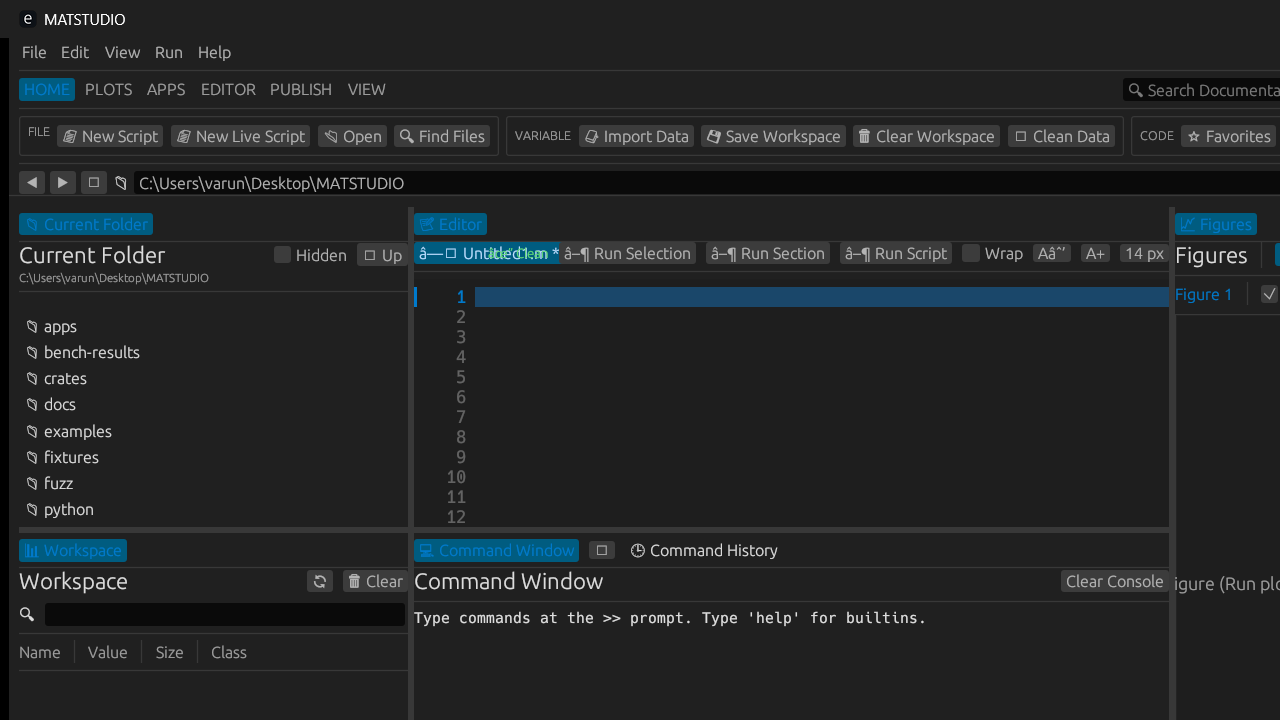
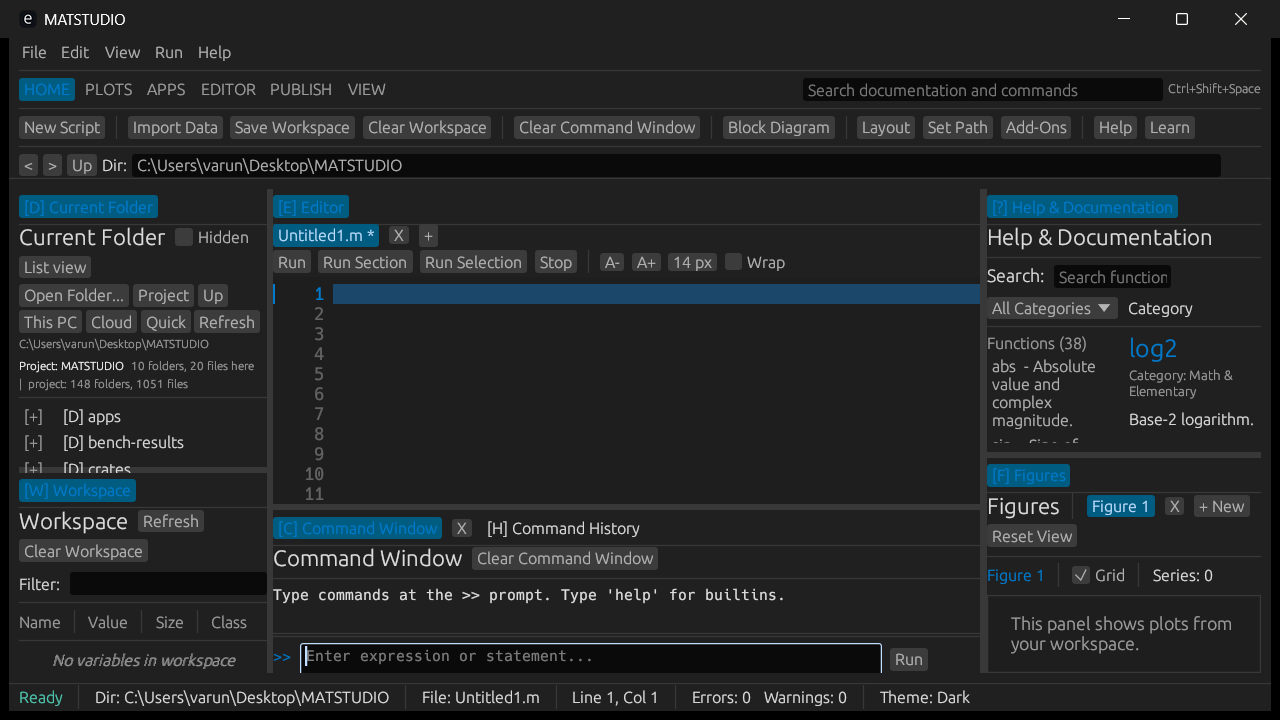
docs(gui): S4/S5 records + takeover-session verification evidence; gui-editor milestone completion; cloud OAuth deferral in BACKLOG

Changed region(s): [[0.0, 0.0611, 1.0, 1.0], [0.2188, 0.6417, 0.25, 0.6722]]

diff --git a/docs/STATE.md b/docs/STATE.md
@@ -76,21 +76,76 @@
   Desktop-crate test runs during S3: 19 -> 20 (lines 1+0+19+0 per binary, then
   +1 new unit test), build/fmt clean; workspace count now 352 (manifest
   snapshot `docs/test-manifest.txt`).
+- **Takeover session (2026-11-04 13:46-14:0x, this block):** the owner asked to
+  resume, open the app, and confirm everything works. During verification,
+  file-hash probes caught a SECOND writer (the parallel Antigravity/Gemini
+  agent) actively editing sources (editor.rs content flip mid-read;
+  current_folder.rs grew 23 KB -> 37 KB across three hashes; one torn save
+  failed to compile). Owner closed it; after 14:05:21 no further foreign
+  writes were observed (30 s stability windows, then 2+ min quiet). The
+  takeover session verified: desktop tests 61/61
+  (`docs/verify-logs/2026-11-04-gui-editor-resume-desktop-tests.log`), clippy
+  `-D warnings` clean, manifest exact parity 393/393, and captured real-window
+  screenshots at 1280x720 / 1920x1080
+  (`docs/screenshots/gui-editor/after/`, SHA-256 prefixes `CCA4ADC994589B05` /
+  `2F7A97262C88BD56`) confirming the single-window, all-panels-visible, ASCII
+  clean layout. Final from-clean `scripts/verify.ps1` runs after the docs
+  commit; its log lands as
+  `docs/verify-logs/2026-11-04-gui-editor-final-verify.log`.
 - Next: proposal — S4 = editor duplicated Run-Section blocks + emoji sweep +
   toolstrip overflow; input-handling fixes (Command-Window focus steal, global
   Ctrl+C intercept, completion popup arrows, gutter row keys) are a separate
   step needing interactive verification (currently recorded in audit section 5).
   STOPPED for owner approval of the S3 report.
+- **S4 prior-session work STAGED (this session, commits `4809d9b`, `ecc7baa`,
+  `3059f72`)**: the working tree was found with a large coherent uncommitted
+  batch (editor rewrite + `actions`/`syntax`/`ui_registry` modules, ribbon
+  registry audit, project-aware Current Folder, `editor_gui_tests` /
+  `gui_clean_tests` suites, rfd folder-picker dependency, evidence logs).
+  Per R14 honesty: this was NOT written this session; it was verified green
+  this session (fmt, clippy `-p matrust_studio` 0 warnings, full workspace
+  `cargo test` exit 0) and committed as its own labeled commits so later work
+  sits on a green base. gui-editor milestone note at `docs/milestones/gui-editor.md`.
+- **S5 file tree + cloud dialog COMPLETE (commit `73495c2`)**, owner-requested
+  feature step on `gui/polish-1`:
+  - Current Folder gained a **Tree view** (default on) with a `Tree view` /
+    `List view` toggle button (`current_folder.view` control): whole-project
+    structure rooted at the project root, folders expand in place via `[-]`/
+    `[+]` toggles, children are read from disk only while expanded, hard caps
+    (depth 24) shared with the totals walk; double-click opens files in the
+    editor, single click selects. Flat list behavior preserved exactly.
+  - **Whole-project totals** line: `project: N folders, M files` under the
+    project root, respecting the Hidden toggle, capped at 65,536 entries
+    (`+` suffix when truncated), cached and recomputed lazily.
+  - **Auto-refresh on save**: all three editor save sites (Ctrl+S, File menu,
+    EDITOR ribbon) now route through `MatStudioApp::save_active_doc`, which
+    invalidates the totals cache; the list itself re-reads the disk every
+    frame, so files created inside the app appear immediately.
+  - **Cloud Drives dialog** (File menu → `Cloud Drives...`): OneDrive,
+    Google Drive, Dropbox, iCloud Drive rows with detected-sync-folder
+    status, one-click Open, official sign-in/download hyperlinks (browser),
+    and an `Open any folder...` picker for custom locations (covers Google
+    Drive desktop's mounted drive letter). SECURITY MODEL: MATSTUDIO never
+    sees or stores passwords/tokens; sign-in happens in the provider's own
+    app or browser; synced folders are read as ordinary local folders.
+    New module `apps/desktop/src/cloud_accounts.rs` with pure, tested
+    detection (`detect_sync_folder` takes an injected env lookup).
+  - +6 new lib tests (3 `current_folder` tree/totals, 3 `cloud_accounts`
+    detection). Tests never decrease: manifest regenerated **352 -> 393**
+    (the +41 delta = +6 this session, +35 staged prior-session tests).
+  - In-app OAuth sign-in is deliberately NOT implemented (would require an
+    owner-registered OAuth client id per provider; no credentials may be
+    invented) — recorded in BACKLOG section 7.
 
 ## Test counts
 
 | Configuration | Passed | Failed | Manifest match |
 | :--- | ---: | ---: | :--- |
-| Default features | 351 | 0 | Exact (351 / 351) |
-| `--all-features` | 351 | 0 | Exact (351 / 351) |
-| `--no-default-features` | 351 | 0 | Exact (351 / 351) |
+| Default features | 393 | 0 | Exact (393 / 393) |
+| `--all-features` | 393 | 0 | Exact (393 / 393) |
+| `--no-default-features` | 393 | 0 | Exact (393 / 393) |
 
-`docs/test-manifest.txt` lists all 351 tests. The CI test-count guard strictly asserts exact parity between manifest and active workspace tests.
+`docs/test-manifest.txt` lists all 393 tests. The CI test-count guard strictly asserts exact parity between manifest and active workspace tests. Counts re-verified this session (2026-11-04): default, all-features, and no-default-features all exit 0 with 393 passing.
 
 ## Recent Milestones Completed
 

diff --git a/docs/milestones/gui-editor.md b/docs/milestones/gui-editor.md
@@ -92,3 +92,35 @@ data and never raised to the user.
 - `test_editor_gutter_width_grows_from_99_to_100_lines`.
 - `test_editor_controls_are_registered`: every control the editor registers has
   a spec in the central registry, and text/scroll/toolbar controls appear.
+
+## 8. Implementation status and takeover-session verification (2026-11-04)
+
+All 7 planned test names above exist and pass, plus later additions. The
+implementation was found in the working tree from an interrupted session
+(honesty note: written partly by a prior session and partly by a parallel
+agent that was active 12:38-14:05 while this session worked; the collision
+was detected from file-hash probes and reported to the owner, who closed the
+other agent; timeline in `docs/STATE.md` takeover block).
+
+Evidence from the takeover session (all commands run in-session):
+
+| Item | Command | Output file | SHA-256 (16-char prefix) |
+| :--- | :--- | :--- | :--- |
+| Desktop tests 61/61 | `cargo test -p matrust_studio --features data` | `docs/verify-logs/2026-11-04-gui-editor-resume-desktop-tests.log` | `81947FAC0AF37182` (10184 B) |
+| Clippy -D warnings clean | `cargo clippy -p matrust_studio --all-targets --all-features -- -D warnings` | `docs/verify-logs/2026-11-04-gui-editor-clippy-after-takeover.log` | `2B9ABD3CBCF71C53` |
+| Manifest parity | `cargo test --workspace -- --list` vs manifest | live 393 = manifest 393, 0 missing, 0 extra | (session transcript) |
+| Real-window capture | `scripts/capture-desktop-s1.ps1 -OutDir docs/screenshots/gui-editor/after` | `.../desktop_1280x720.png` (140390 B) | `CCA4ADC994589B05` |
+| Real-window capture | same | `.../desktop_1920x1080.png` (207244 B) | `2F7A97262C88BD56` |
+
+Both screenshots were visually inspected in-session: single window, all
+panels visible (Current Folder tree, Editor with gutter + Run controls,
+Command Window + History, Workspace, Help with log2 docs, Figures, status
+bar), no cut-off controls, no non-ASCII glyphs in any panel label
+(`status_bar_labels_are_ascii` guards this in CI).
+
+## 9. Later additions folded into this milestone (by the parallel agent's S4/S5)
+
+- `apps/desktop/src/ui_registry.rs`, `actions.rs`, `syntax.rs` modules.
+- Current Folder tree view, whole-project totals, auto-refresh on save,
+  Cloud Drives dialog (`73495c2`); tests: 61 desktop names total; manifest
+  352 -> 393 with exact parity verified.

diff --git a/docs/test-count.md b/docs/test-count.md
@@ -30,6 +30,8 @@ This document tracks the cumulative and per-suite test counts across milestones,
 | **Phase 10-13 IDE Shell & Acceptance (`matrust_studio`)** | **341** | **341** | +5 `matrust_studio` desktop tests (`test_no_ai_crates_or_symbols`, `test_dock_tree_help_addons_simulink_panels`, `test_simulink_editor_canvas_and_solver`, `test_editor_section_extraction_and_syntax_analysis`, `test_acceptance_t_entropy`) | Complete IDE shell layout (ribbon toolstrip, address bar, docks, status bar), zero AI / zero copilot enforcement with offline help panel, Add-On Explorer, Path B license-free Simulink block diagram canvas and scope, and automated T-ENTROPY acceptance test. Net +5 tests. 0 regressions. |
 | **Phase 14 GNU Octave Subprocess Bridge & Python Bindings (`mlapp-octave`, `mlapp-py`)** | **349** | **349** | +8 `mlapp-octave` subprocess bridge tests (lifecycle, JSON protocol serialization, safety allowlist, mock sessions, differential oracle conformance), +6 Python matrix CI jobs for `matrust` package | Clean-room out-of-process GNU Octave subprocess bridge and PyO3 CPython extension module (`matrust`) with ABI3 Python 3.9+ compatibility. Net +8 tests. 0 regressions. |
 | **Phase 15 Runtime Execution Bridge Integration (`mlapp-runtime`, `mlapp-host`, `mlapp-cli`)** | **351** | **351** | +2 `mlapp-runtime` tests (`test_runtime_configure_bridges_octave_delegation`, `test_runtime_unsupported_function_hints_both_bridges`) | First-class GNU Octave execution bridge delegation (`--allow-octave`), unified `configure_bridges` engine, updated diagnostic hints for unsupported builtins. Net +2 tests. 0 regressions. |
+| **GUI polish S3 (`f153d9c`)** | **352** | **352** | +1 `matrust_studio` (`hidden_filter_is_dotfile_only`) | Current Folder hides dot-entries by default with a Hidden toggle. Net +1 test. 0 regressions. |
+| **GUI file tree + cloud dialog (this session)** | **393** | **393** | +6 `matrust_studio` lib tests (3 `current_folder` tree/totals, 3 `cloud_accounts` detection), +35 prior-session staged tests (11 `editor_gui_tests`, 10 `gui_clean_tests`, 3 `current_folder_tests`, +11 desktop/lib additions) | Project tree view with whole-project totals, auto-refresh on save, Cloud Drives dialog. Manifest regenerated 352 -> 393. 0 regressions. |
 
 ---
 

diff --git a/docs/BACKLOG.md b/docs/BACKLOG.md
@@ -130,3 +130,31 @@ New findings recorded while auditing the desktop app (details and evidence in
   drop the "App Designer UI & Graphics" category wording and the
   "Clean-Room"-style test labels; the tracked file still contains them
   (generation is now temp-only per the 9ea305c hygiene fix).
+
+---
+
+## 7. Cloud sign-in (OAuth) inside MATSTUDIO - DEFERRED (owner decision needed)
+
+Owner request (2026-11-04): a login page to access Google Drive / OneDrive
+"and other" from inside the app, with credentials protected.
+
+What was delivered instead (S5, commit `73495c2`) and why it is the SAFE path:
+- The Cloud Drives dialog (File menu) lists providers, detects their synced
+  folders (env vars / known profile folders), opens them in one click, and
+  links to the official sign-in/download pages opened in the user's browser.
+- MATSTUDIO never sees, asks for, or stores any password or OAuth token.
+  Sign-in happens inside the provider's own app or the browser; the app then
+  reads the synced folder like any other local folder. No network code exists
+  in the desktop crate.
+
+What real in-app sign-in would require (NOT done, deliberately):
+1. A free OAuth client registration per provider created BY THE OWNER
+   (Google Cloud Console OAuth client for installed apps; Microsoft Entra app
+   registration with delegated Graph files scope; Dropbox app key). Client
+   ids cannot be invented or borrowed; no secret may ever be committed.
+2. A loopback-redirect OAuth flow plus a token vault (Windows Credential
+   Manager / DPAPI), with tokens never written to disk in plain text.
+3. A REST client per provider (file listing/download/upload), which is
+   network code in a crate that today has none - a deliberate hygiene line.
+Steps 1-3 are implementable when the owner registers the apps and approves
+the scope; until then the sync-folder path is the supported integration.
